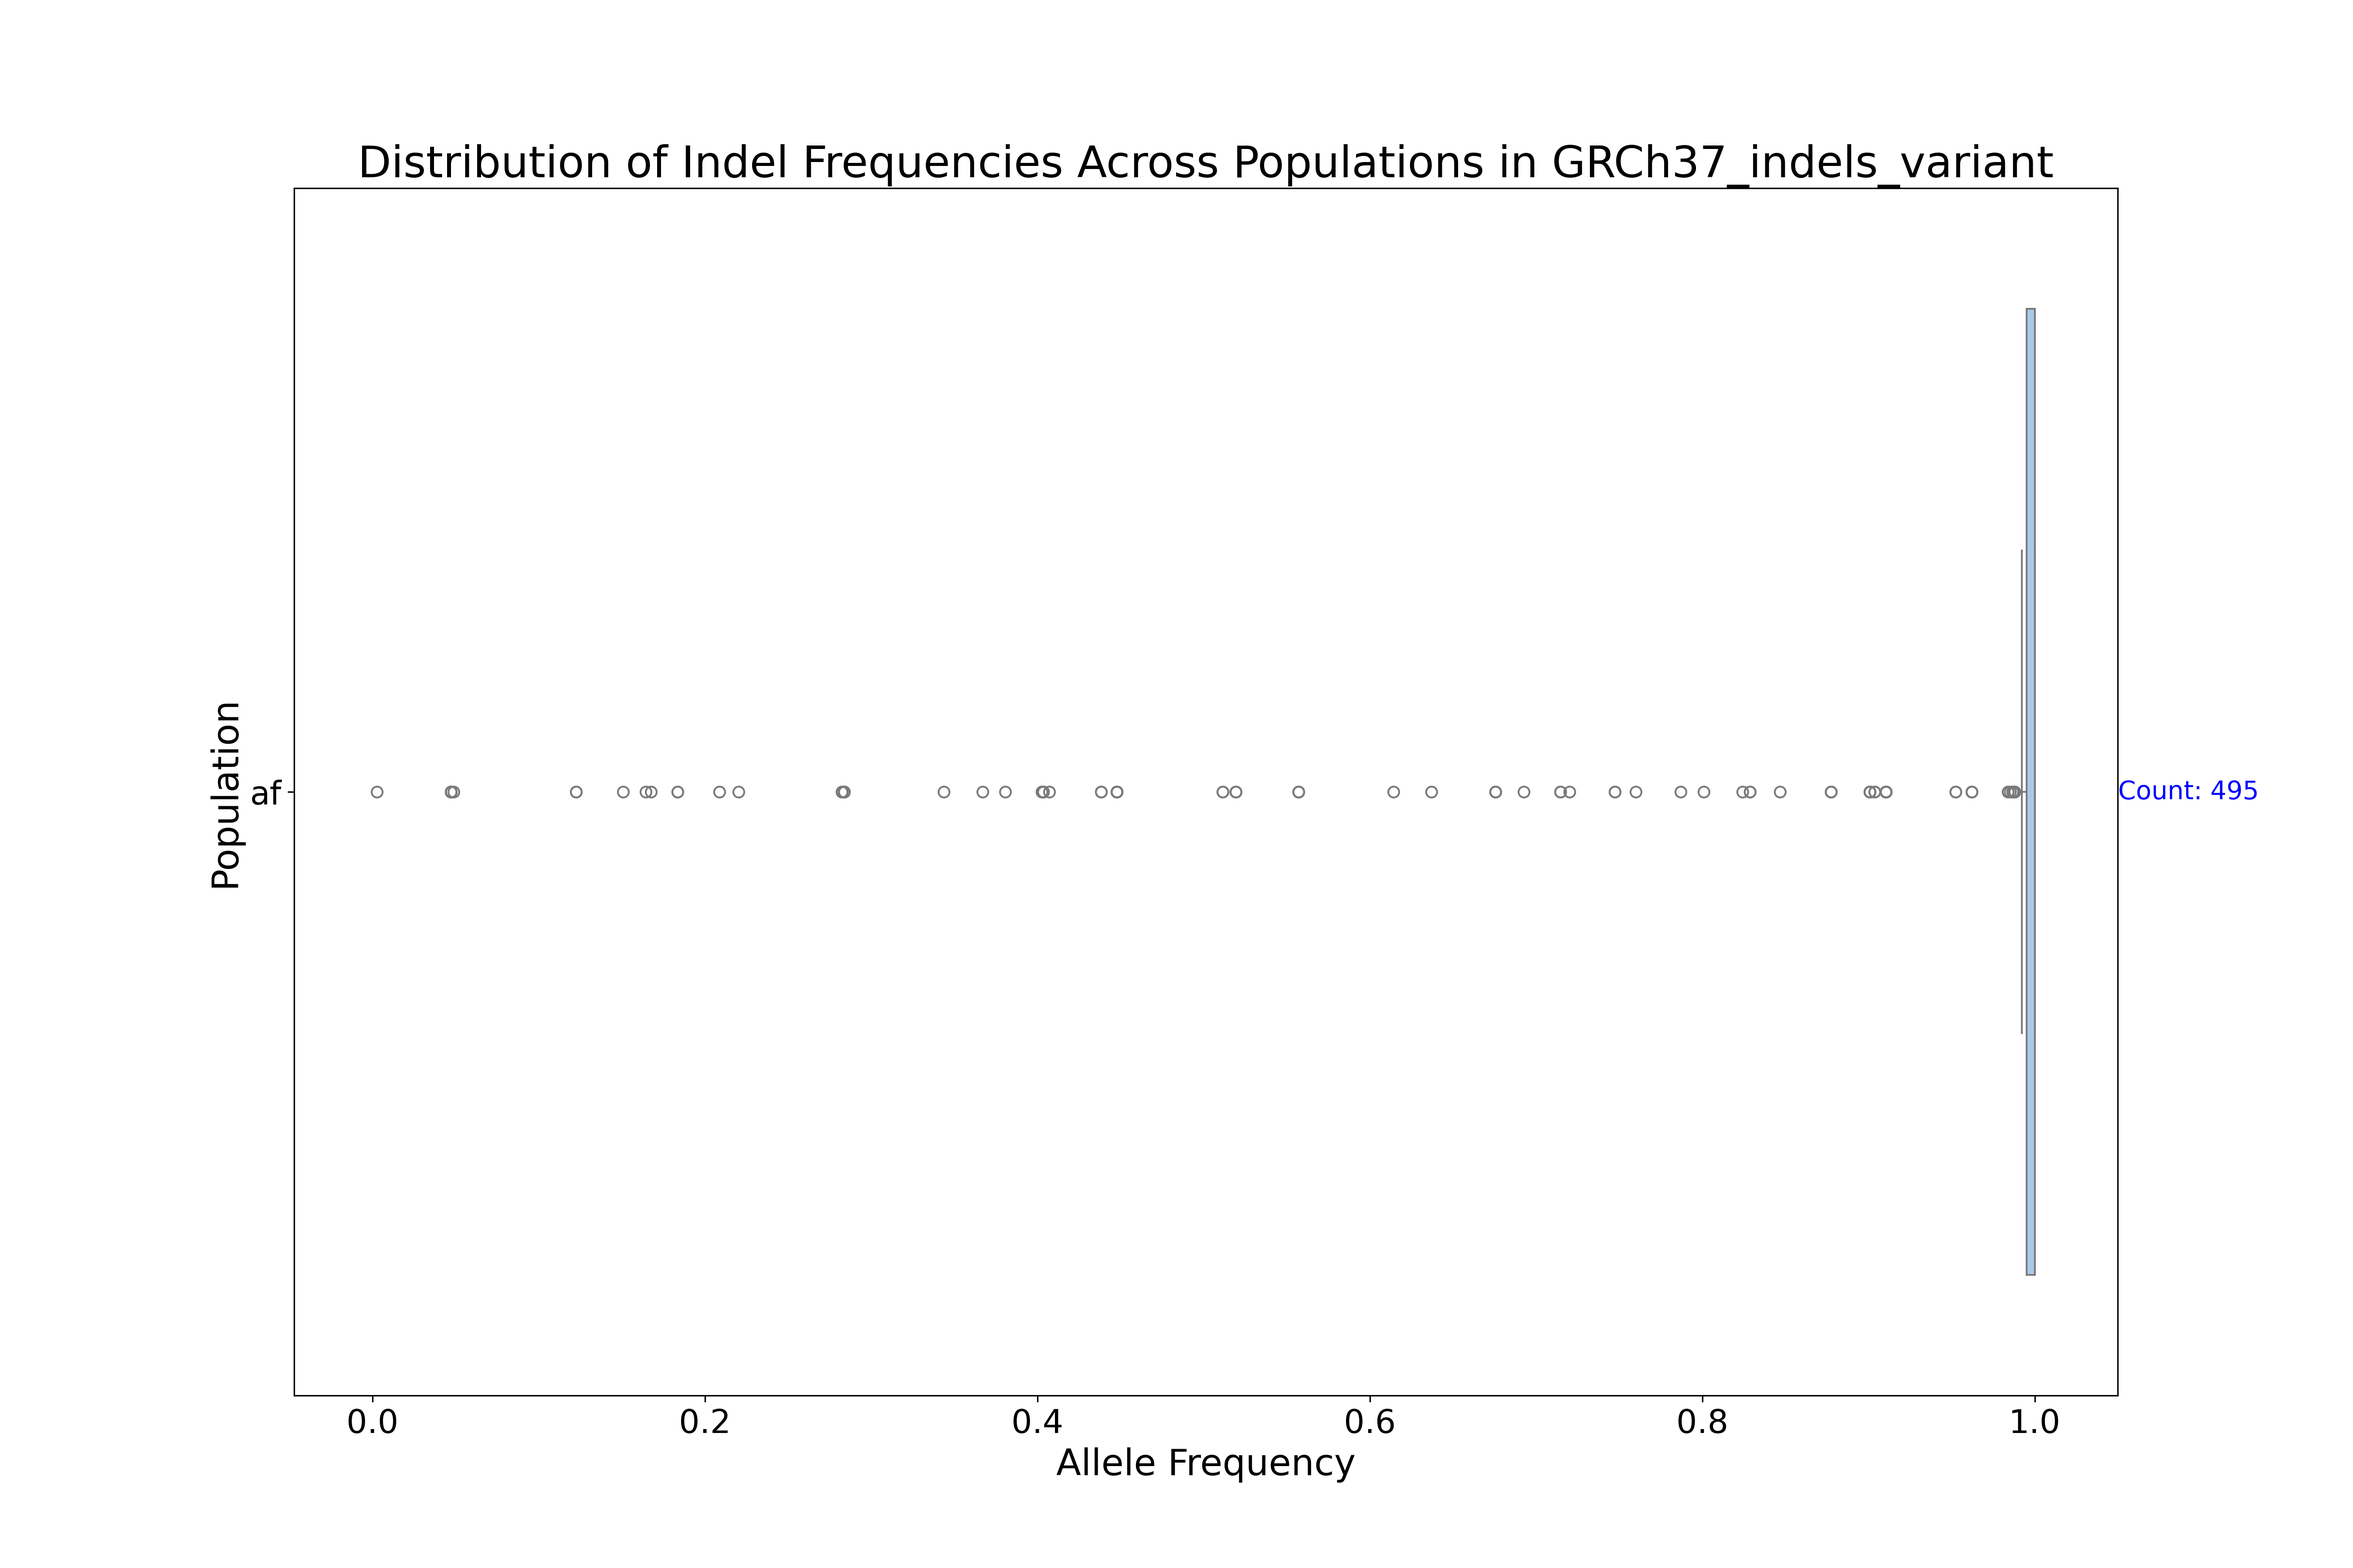
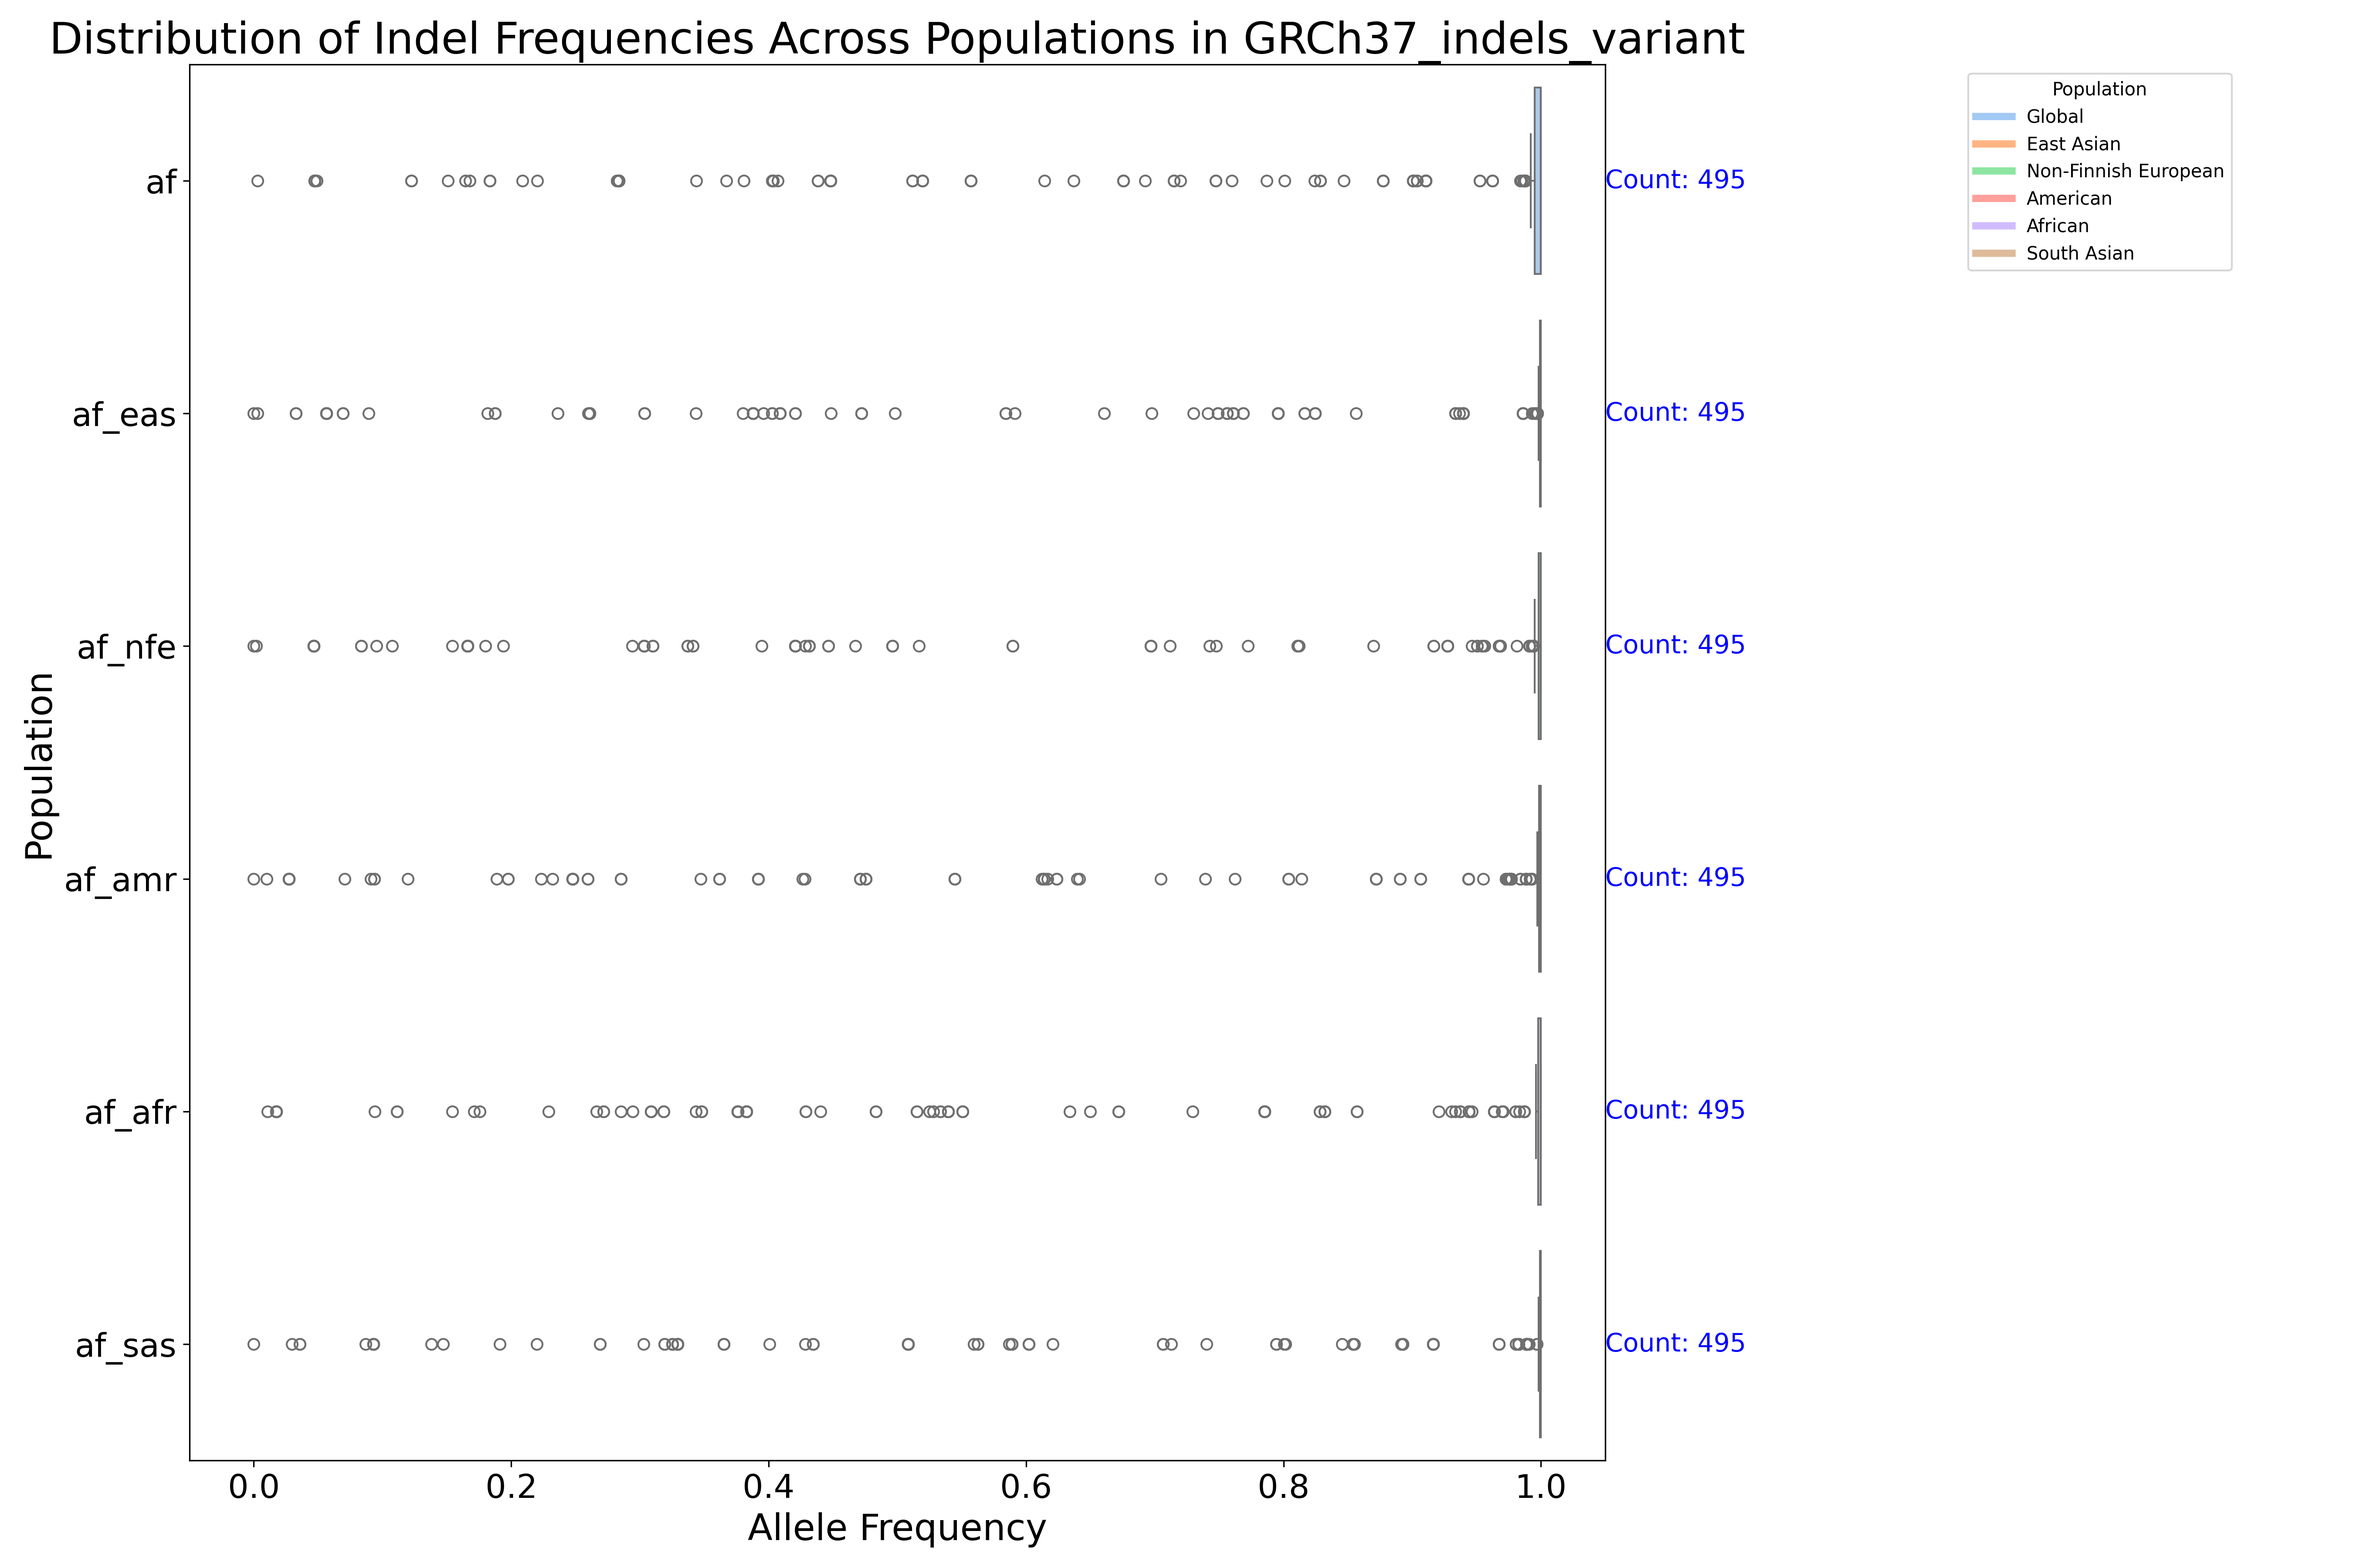
added af distribution

diff --git a/analysis/af_distribution.py b/analysis/af_distribution.py
@@ -1,0 +1,63 @@
+import pandas as pd
+import seaborn as sns
+import matplotlib.pyplot as plt
+import sqlite3
+import os
+import argparse
+
+def read_database(db_path):
+    conn = sqlite3.connect(db_path)
+    df = pd.read_sql_query("SELECT * FROM variants", conn)
+    conn.close()
+    return df
+
+def plot_allele_frequency_histogram(df, output_dir, db_name):
+    # Define the general population allele frequency column
+    population_col = 'af'
+    
+    if population_col not in df.columns:
+        print(f"No {population_col} column found in the database.")
+        return pd.DataFrame()
+
+    # Convert allele frequency column to numeric, forcing errors to NaN
+    df[population_col] = pd.to_numeric(df[population_col], errors='coerce')
+
+    # Filter out rows with no frequency data
+    df_freq = df.dropna(subset=[population_col], how='all')
+
+    plt.figure(figsize=(18, 12))  # Increased figure size
+
+    # Plot histogram
+    sns.histplot(df_freq, x=population_col, kde=True, color='blue', bins=50)
+
+    plt.title(f'Distribution of Allele Frequencies in the General Population in {db_name}', fontsize=24)
+    plt.xlabel('Allele Frequency', fontsize=20)
+    plt.ylabel('Count', fontsize=20)
+    plt.xticks(fontsize=18)
+    plt.yticks(fontsize=18)
+    plt.tight_layout()
+
+    # Save plot as a PNG file
+    output_path = os.path.join(output_dir, f'allele_frequency_distribution_{db_name}.png')
+    plt.savefig(output_path, dpi=300)
+    print(f"Plot saved to {output_path}")
+
+    plt.show()
+
+def main():
+    parser = argparse.ArgumentParser(description="Analyze allele frequency distribution from a SQLite database.")
+    parser.add_argument('db_path', help="Path to the SQLite database")
+    args = parser.parse_args()
+
+    db_path = args.db_path
+    output_dir = "analysis/figures"
+    os.makedirs(output_dir, exist_ok=True)
+    
+    db_name = os.path.basename(db_path).replace('.db', '')
+    
+    df = read_database(db_path)
+    
+    plot_allele_frequency_histogram(df, output_dir, db_name)
+
+if __name__ == "__main__":
+    main()

diff --git a/main/query_database.py b/main/query_database.py
@@ -7,7 +7,7 @@ def remove_duplicates(cursor):
         WHERE rowid NOT IN (
             SELECT MIN(rowid)
             FROM variants
-            GROUP BY chrom, pos, ref, alt, transcript_ref
+            GROUP BY chrom, pos, ref, alt
         )
     ''')
 
@@ -15,7 +15,7 @@ def query_database(db_path):
     conn = sqlite3.connect(db_path)
     cursor = conn.cursor()
     
-    #remove_duplicates(cursor)
+    remove_duplicates(cursor)
 
     # Count total rows
     cursor.execute("SELECT COUNT(*) FROM variants")
@@ -34,7 +34,7 @@ def query_database(db_path):
     print("\n")
 
     #Execute a SELECT * query for rows where clinical label is different from "No Data"
-    cursor.execute("SELECT * FROM variants  WHERE af is not 'Na' LIMIT 10;")
+    cursor.execute("SELECT * FROM variants  WHERE af < 0.1 LIMIT 10;")
     rows = cursor.fetchall()
 
     # Get column names

diff --git a/analysis/population_analysis.py b/analysis/population_analysis.py
@@ -41,9 +41,13 @@ def compare_population_frequencies(df, output_dir, db_name):
     if not available_populations:
         print("No population frequency columns available for analysis.")
         return pd.DataFrame()
-    
+
     # Filter out rows with no frequency data across all population columns
     df_freq = df.dropna(subset=available_populations, how='all')
+
+    # Drop populations where all values are NaN
+    available_populations = [pop for pop in available_populations if df_freq[pop].notna().any()]
+    population_labels = [label for pop, label in zip(populations, population_labels) if pop in available_populations]
 
     # Debugging: Check for NaN values
     print("NaN values check:")
